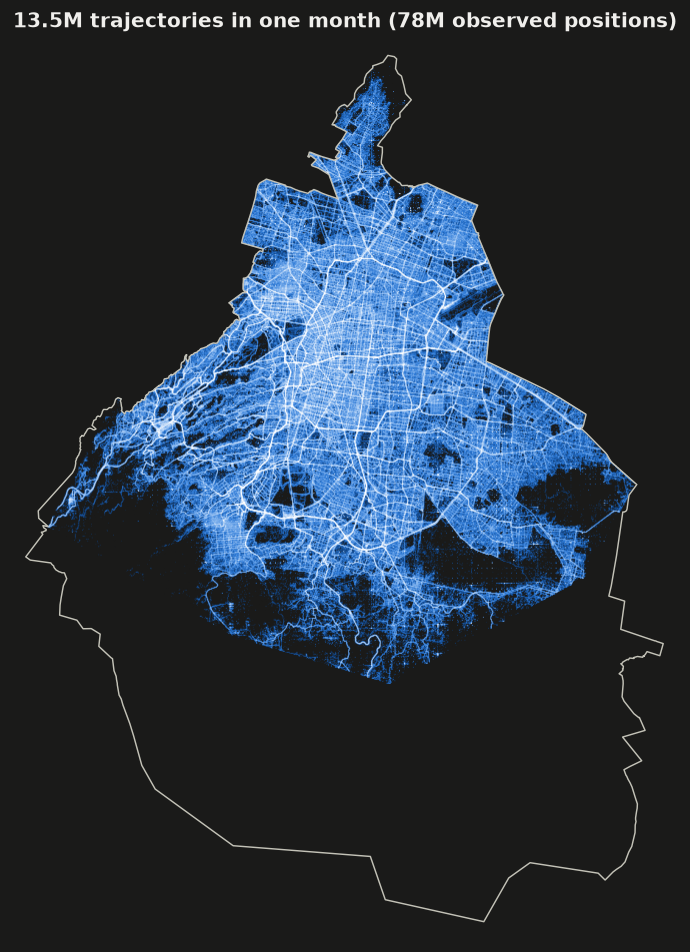
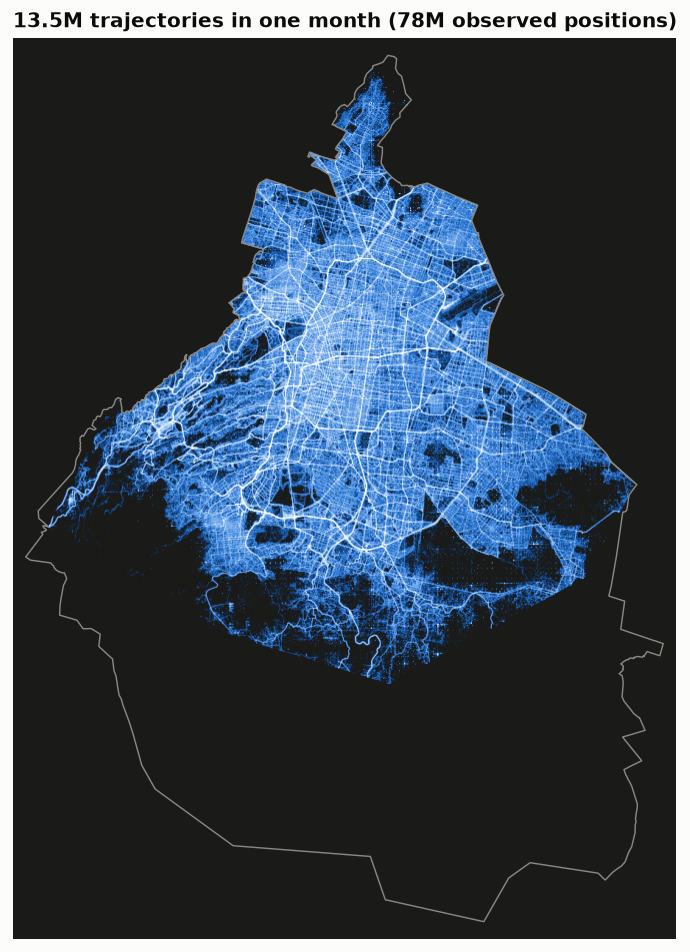
Maps: theme-following home/work maps with inferno palette; trajectory maps on white page with dark map panel

diff --git a/examples/mexico_city_figures.py b/examples/mexico_city_figures.py
@@ -61,12 +61,16 @@ def grid_mask(shape):
     return inside(lon, lat)
 
 
-def outline(ax, t, lw=1.2):
+def outline(ax, t, lw=1.2, color=None):
     b = boundary()
     for poly in getattr(b, "geoms", [b]):
         lo, la = np.asarray(poly.exterior.coords).T
         x, y = merc(lo, la)
-        ax.plot(x, y, color=t["ink2"], lw=lw, zorder=4)
+        ax.plot(x, y, color=color or t["ink2"], lw=lw, zorder=4)
+
+
+#: Trajectory maps: white page and black text, only the map panel is dark so white-hot paths stand out.
+MAP_BG, MAP_LINE = "#1a1a19", "#898781"
 
 
 def hist2d(lat, lon, bins):
@@ -164,14 +168,14 @@ def fig_stays(stays, home, work, n, t, path):
 def fig_flows(flow, n, t, path):
     x0, x1, y0, y1 = extent()
     # dark surface -> deep blue -> bright blue -> white (most traveled)
-    cmap = LinearSegmentedColormap.from_list("flow", [t["surface"], "#104281", "#2a78d6", "#86b6ef", "#ffffff"])
+    cmap = LinearSegmentedColormap.from_list("flow", [MAP_BG, "#104281", "#2a78d6", "#86b6ef", "#ffffff"])
     fig, ax = plt.subplots(figsize=(9, 9))
     m = np.ma.masked_where((flow < 1) | ~grid_mask(flow.shape), flow)
-    ax.set_facecolor(t["surface"])
+    ax.set_facecolor(MAP_BG)
     ax.imshow(m, extent=(x0, x1, y0, y1), origin="lower", cmap=cmap,
               norm=LogNorm(vmin=1, vmax=np.percentile(flow[flow > 0], 99)), interpolation="antialiased")
     ax.set_xlim(x0, x1), ax.set_ylim(y0, y1)
-    outline(ax, t, lw=0.8)
+    outline(ax, t, lw=0.8, color=MAP_LINE)
     ax.set_xticks([]), ax.set_yticks([]), ax.grid(False)
     for s in ax.spines.values():
         s.set_visible(False)
@@ -242,11 +246,10 @@ def clean_locations(loc, min_devices=50):
 def fig_h3(loc, t, path, k=1):
     seq = hot_cmap()
     div = LinearSegmentedColormap.from_list(
-        "div", ["#3987e5", "#86b6ef", "#f0efec" if t is THEMES["light"] else "#4a4a46", "#ec835a", "#e34948"])
+        "div", ["#1c5cab", "#86b6ef", "#f0efec" if t is THEMES["light"] else "#383835", "#ec835a", "#c93b3a"])
     loc, nh, nw = clean_locations(loc)
     h10 = pr.home_work_h3(loc, 10, min_count=k, geometry=False).drop_nulls("homes")
     w10 = pr.home_work_h3(loc, 10, min_count=k, geometry=False).drop_nulls("workers")
-    n_h, n_w = loc["home_latitude"].is_not_null().sum(), loc["work_latitude"].is_not_null().sum()
     # ratios of tiny counts are noise: compare cells with at least 5 homes and 5 workers
     b8 = pr.home_work_h3(loc, 8, min_count=5, geometry=False).drop_nulls(["homes", "workers"])
     H, W = b8["homes"].sum(), b8["workers"].sum()
@@ -257,10 +260,9 @@ def fig_h3(loc, t, path, k=1):
     ext = extent()
     q = lambda s: float(np.percentile(s.to_numpy(), 99))
     panels = [
-        (h10, h10["homes"], seq, LogNorm(k, q(h10["homes"])),
-         f"Homes, H3 res 10 (~76 m): {h10['homes'].sum():,} ({h10['homes'].sum() / n_h:.0%} shown)"),
+        (h10, h10["homes"], seq, LogNorm(k, q(h10["homes"])), f"Homes, H3 res 10 (~76 m): {h10['homes'].sum():,}"),
         (w10, w10["workers"], seq, LogNorm(k, q(w10["workers"])),
-         f"Work places, H3 res 10 (~76 m): {w10['workers'].sum():,} ({w10['workers'].sum() / n_w:.0%} shown)"),
+         f"Work places, H3 res 10 (~76 m): {w10['workers'].sum():,}"),
         (b8, np.clip(bal, -3, 3), div, Normalize(-3, 3), "Jobs vs residents, H3 res 8 (~530 m)"),
     ]
     for ax, (cells, vals, cmap, norm, title) in zip(axes, panels):
@@ -300,13 +302,13 @@ def fig_mode_maps(by_mode, n, t, path):
         h = by_mode[m]
         # dark surface -> deep hue -> hue -> pale hue -> white (most traveled)
         cmap = LinearSegmentedColormap.from_list(
-            m, [t["surface"], blend(color, t["surface"], 0.55), color, blend(color, "#ffffff", 0.6), "#ffffff"])
+            m, [MAP_BG, blend(color, MAP_BG, 0.55), color, blend(color, "#ffffff", 0.6), "#ffffff"])
         mm = np.ma.masked_where((h < 1) | ~grid_mask(h.shape), h)
-        ax.set_facecolor(t["surface"])
+        ax.set_facecolor(MAP_BG)
         ax.imshow(mm, extent=(x0, x1, y0, y1), origin="lower", cmap=cmap, interpolation="antialiased",
                   norm=LogNorm(vmin=1, vmax=max(np.percentile(h[h > 0], 99), 2)))
         ax.set_xlim(x0, x1), ax.set_ylim(y0, y1)
-        outline(ax, t, lw=0.8)
+        outline(ax, t, lw=0.8, color=MAP_LINE)
         ax.set_xticks([]), ax.set_yticks([]), ax.grid(False)
         for s in ax.spines.values():
             s.set_visible(False)
@@ -338,19 +340,20 @@ def main():
             fig_mode_features(tr, tz, t, f"{a.out}/cdmx_modes_{mode}.png")
         return
     loc = pl.read_parquet(glob.glob(f"{a.output_dir}/locations/shard=*.parquet"))
-    # one dark rendering (hot colors = most) used in both site themes
-    style(THEMES["dark"])
-    fig_h3(loc, THEMES["dark"], f"{a.out}/cdmx_h3.png")
+    for mode, t in THEMES.items():
+        style(t)
+        fig_h3(loc, t, f"{a.out}/cdmx_h3_{mode}.png")
     if a.only_h3:
         return
     stays, home, work, flow, by_mode, n = load(a.output_dir)
     print(n)
-    style(THEMES["dark"])
-    fig_stays(stays, home, work, n, THEMES["dark"], f"{a.out}/cdmx_stays.png")
-    # trajectory maps: one dark rendering (white = most traveled), used in both site themes
-    style(THEMES["dark"])
-    fig_flows(flow, n, THEMES["dark"], f"{a.out}/cdmx_flows.png")
-    fig_mode_maps(by_mode, n, THEMES["dark"], f"{a.out}/cdmx_mode_maps.png")
+    for mode, t in THEMES.items():
+        style(t)
+        fig_stays(stays, home, work, n, t, f"{a.out}/cdmx_stays_{mode}.png")
+    # trajectory maps: one image for both site themes: white page, black text, dark map panel
+    style(THEMES["light"])
+    fig_flows(flow, n, THEMES["light"], f"{a.out}/cdmx_flows.png")
+    fig_mode_maps(by_mode, n, THEMES["light"], f"{a.out}/cdmx_mode_maps.png")
     print("figures: trajectory maps")
 
 

diff --git a/docs/examples/mexico-city.md b/docs/examples/mexico-city.md
@@ -56,7 +56,8 @@ pipe.run("/data/Berkeley/MX/data_quadrant/filtered_localized/*/*.parquet")
 
 Counts per ~150 m cell, log scale:
 
-![Stays, homes and work places in Mexico City](../assets/figures/cdmx_stays.png)
+![Stays, homes and work places in Mexico City](../assets/figures/cdmx_stays_light.png#only-light)
+![Stays, homes and work places in Mexico City](../assets/figures/cdmx_stays_dark.png#only-dark)
 
 ## Homes and work places on H3
 
@@ -67,7 +68,8 @@ hexagon, with no identifiers, so every cell is shown (`min_count=1`).
 cells = pipe.locations_h3(resolution=10)          # or pr.home_work_h3(locations, 10)
 ```
 
-![Homes, work places and jobs vs residents on H3](../assets/figures/cdmx_h3.png)
+![Homes, work places and jobs vs residents on H3](../assets/figures/cdmx_h3_light.png#only-light)
+![Homes, work places and jobs vs residents on H3](../assets/figures/cdmx_h3_dark.png#only-dark)
 
 Homes and work places are both at block level (res 10, ~76 m). Homes cover the residential
 city; work places concentrate in the center and along the main corridors. The jobs-vs-residents

diff --git a/docs/guide/spatial.md b/docs/guide/spatial.md
@@ -36,7 +36,8 @@ homes, 53.9k work places):
 | 10 | ~76 m | 90% | 40% |
 | 11 | ~29 m | 58% | 18% |
 
-![Homes, work places and jobs vs residents in Mexico City](../assets/figures/cdmx_h3.png)
+![Homes, work places and jobs vs residents in Mexico City](../assets/figures/cdmx_h3_light.png#only-light)
+![Homes, work places and jobs vs residents in Mexico City](../assets/figures/cdmx_h3_dark.png#only-dark)
 
 The right panel compares jobs with residents per res-8 cell, only where both counts are at
 least 5 (ratios of tiny counts are noise). It plots
